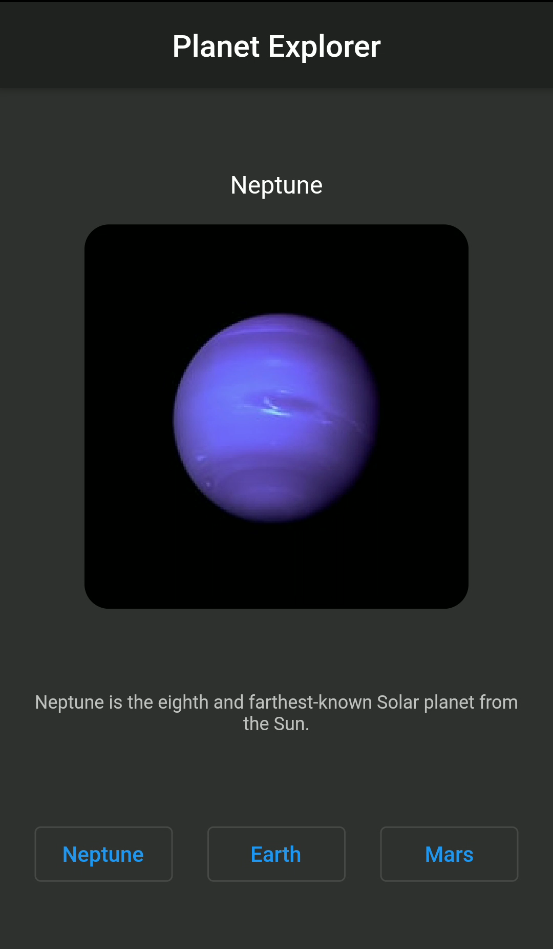
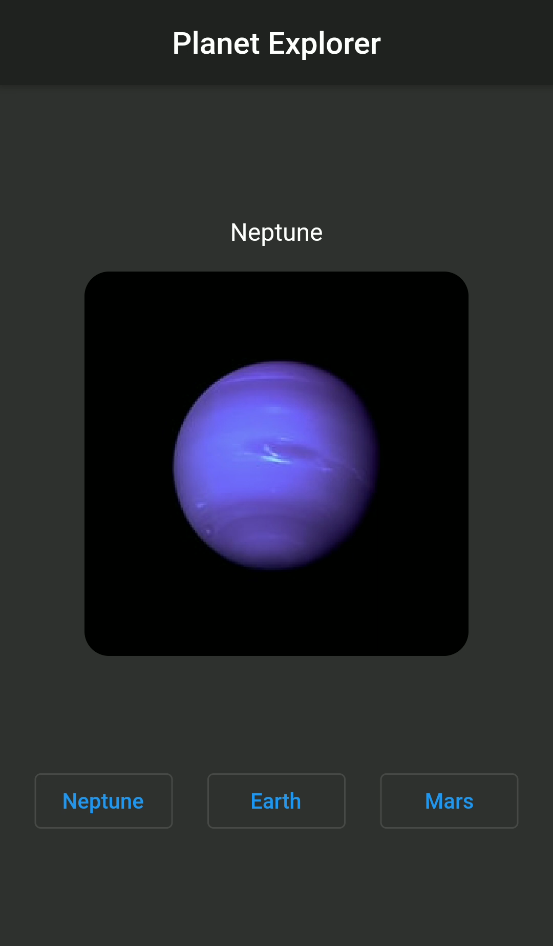
Remove description from Planet and update the screenshot

diff --git a/assignments/assignment_01/lib/repositories/planet_repository.dart b/assignments/assignment_01/lib/repositories/planet_repository.dart
@@ -5,20 +5,14 @@ class PlanetRepository {
     Planet(
       name: "Neptune",
       imageUrl: "https://source.unsplash.com/ScBkW9AKgcA/250x250",
-      description:
-          "Neptune is the eighth and farthest-known Solar planet from the Sun.",
     ),
     Planet(
       name: "Earth",
       imageUrl: "https://source.unsplash.com/yEauzeZU6xo/250x250",
-      description:
-          "Earth is the third planet from the Sun and the only astronomical object known to harbor life.",
     ),
     Planet(
       name: "Mars",
       imageUrl: "https://source.unsplash.com/N3BQHYOVq5E/250x250",
-      description:
-          "Mars is the fourth planet from the Sun and the second-smallest planet in the Solar System, being larger than only Mercury.",
     ),
   ];
 

diff --git a/assignments/assignment_01/lib/screens/planet_explorer.dart b/assignments/assignment_01/lib/screens/planet_explorer.dart
@@ -59,16 +59,6 @@ class _PlanetExplorerState extends State<PlanetExplorer> {
               ),
             ],
           ),
-          Padding(
-            padding: EdgeInsets.all(16.0),
-            child: Text(
-              _planet.description,
-              textAlign: TextAlign.center,
-              style: Theme.of(context).textTheme.caption,
-              maxLines: 2,
-              overflow: TextOverflow.ellipsis,
-            ),
-          ),
           Row(
             mainAxisAlignment: MainAxisAlignment.spaceEvenly,
             children: List.generate(

diff --git a/assignments/assignment_01/lib/models/planet.dart b/assignments/assignment_01/lib/models/planet.dart
@@ -3,11 +3,9 @@ import 'package:flutter/foundation.dart';
 class Planet {
   final String name;
   final String imageUrl;
-  final String description;
 
   const Planet({
     @required this.name,
     @required this.imageUrl,
-    @required this.description,
   });
 }
